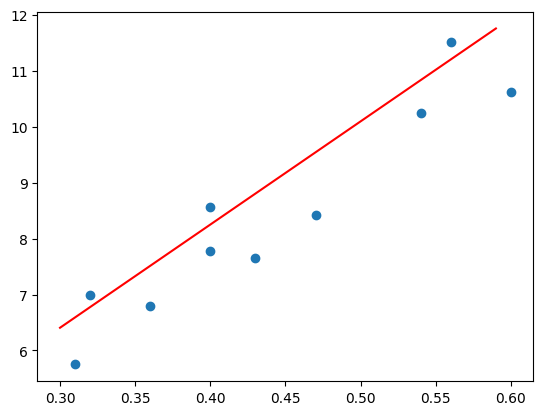
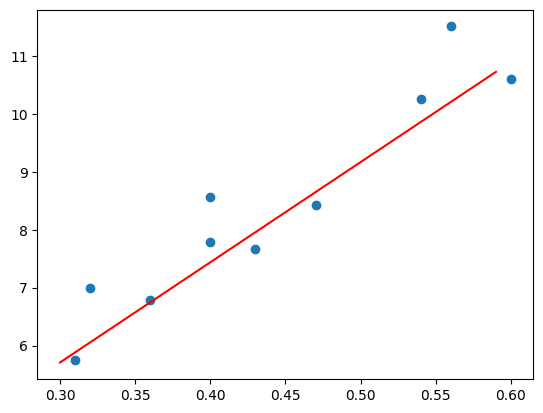
fix implementation

diff --git a/articles/dwd-cuquantum09.md b/articles/dwd-cuquantum09.md
@@ -10,7 +10,9 @@ published: true
 
 [cuQuantum で遊んでみる (8) — QAOA の期待値計算高速化](/derwind/articles/dwd-cuquantum08) で大分計算周りをマシにしたのでもう少し本格的な計算をしてみたいというもの。
 
-なお、今回の計算、どこか間違えているようなのだが間違えているなりにそこそこ行けてそうなので、一旦記事にしてしまって後日修正したい。
+~~なお、今回の計算、どこか間違えているようなのだが間違えているなりにそこそこ行けてそうなので、一旦記事にしてしまって後日修正したい。~~ 修正した[^1]。
+
+[^1]: QUBO 式をイジング変数で書き直す時に式の変形を間違えていた。
 
 実験は Google Colab 上で T4 を使って行った。そんな手軽な環境で本格的な QAOA も VQE も実行できるのである。
 
@@ -72,7 +74,19 @@ H += (10.61 - (a*0.6 + b))**2
 qubo, offset = Compile(H).get_qubo()
 ```
 
-この後、$z_i = (2q_i - 1)$ を用いて、イジング変数で書き直す。単に面倒くさいだけで `qubo` 辞書の内容を `ising_dict` 辞書に置き換えている。
+この後、
+
+$$
+\begin{align*}
+q_i q_j &= \frac{1 - z_i}{2} \frac{1 - z_j}{2} \\
+&= \begin{cases}
+\frac{1 - z_i}{2} \quad (i = j) \\
+\frac{1}{4}(z_i z_j - z_i - z_j + 1) \quad (i \neq j)
+\end{cases}
+\end{align*}
+$$
+
+を用いて、イジング変数で書き直す。単に面倒くさいだけで `qubo` 辞書の内容を `ising_dict` 辞書に置き換えている。
 
 ```python
 ising_dict = {}
@@ -84,27 +98,32 @@ for k, v in qubo.items():
     if rn < ln:
         ln, rn = rn, ln
     if ln == rn:
-        new_k = (f"z{ln}", f"z{ln}")
+        new_k = (f"z{ln}",)
         ising_dict.setdefault(new_k, 0.0)
-        ising_dict[new_k] += v * 3/4
-        additional_offset += 1/4
+        ising_dict[new_k] += -v/2
+        additional_offset += 1/2
     else:
         new_k = (f"z{ln}", f"z{rn}")
         ising_dict.setdefault(new_k, 0.0)
         ising_dict[new_k] += v/4
-        new_k = (f"z{ln}", f"z{ln}")
+        new_k = (f"z{ln}",)
         ising_dict.setdefault(new_k, 0.0)
-        ising_dict[new_k] += v/4
-        new_k = (f"z{rn}", f"z{rn}")
+        ising_dict[new_k] += -v/4
+        new_k = (f"z{rn}",)
         ising_dict.setdefault(new_k, 0.0)
-        ising_dict[new_k] += v/4
+        ising_dict[new_k] += -v/4
         additional_offset += 1/4
 
-def calc_key(k):
-    left, right = k
-    ln = int(left[1:])
-    rn = int(right[1:])
-    return 16*ln + rn
+def calc_key(k: tuple[int] | tuple[int, int]):
+    if len(k) == 1:
+        left = k[0]
+        ln = int(left[1:])
+        return 256*ln - 1
+    else:
+        left, right = k
+        ln = int(left[1:])
+        rn = int(right[1:])
+        return 256*ln + 16*rn
 
 ising_dict = dict(sorted(ising_dict.items(), key=lambda k_v: calc_key(k_v[0])))
 
@@ -112,7 +131,10 @@ ising_dict = dict(sorted(ising_dict.items(), key=lambda k_v: calc_key(k_v[0])))
 #    print(k)
 
 #print(additional_offset)
-#print(ising_dict)
+#for k, v in ising_dict.items():
+#    k = str(k)
+#    n_pad = 15 - len(k)
+#    print(k, " "*n_pad, round(v, 5))
 ```
 
 ## QAOA 回路実装
@@ -138,12 +160,17 @@ qc = QuantumCircuit(n_qubits)
 qc.h(qc.qregs[0][:])
 for _ in range(n_reps):
     for k in ising_dict:
-        left, right = k
-        ln = int(left[1:])
-        rn = int(right[1:])
-        assert ln <= rn
+        if len(k) == 1:
+            left = k[0]
+            ln = int(left[1:])
+            rn = None
+        else:
+            left, right = k
+            ln = int(left[1:])
+            rn = int(right[1:])
+            assert ln <= rn
 
-        if ln == rn:
+        if rn is None:
             qc.rz(gamma[gi()], ln)
         else:
             rzz(qc, gamma[gi()], ln, rn)
@@ -170,9 +197,14 @@ def to_hamiltonian(ising_dict):
     for i in range(n_qubits):
         row = []
         for k in ising_dict.keys():
-            left, right = k
-            ln = int(left[1:])
-            rn = int(right[1:])
+            if len(k) == 1:
+                left = k[0]
+                ln = int(left[1:])
+                rn = None
+            else:
+                left, right = k
+                ln = int(left[1:])
+                rn = int(right[1:])
             if ln == i or rn == i:
                 row.append(Z)
             else:
@@ -202,8 +234,8 @@ for ham, locs in zip(hamiltonian, hamiltonian_locs):
     operands[locs] = ham
 ```
 
-> CPU times: user 2min 22s, sys: 310 ms, total: 2min 22s
-> Wall time: 2min 23s
+> CPU times: user 2min 29s, sys: 351 ms, total: 2min 30s
+> Wall time: 2min 33s
 
 `expr` の中身が酷くて、眺めてみると面白い。「食 (hamu)」の部分にハミルトニアンを埋め込んでいる。
 
@@ -251,9 +283,9 @@ print(f"opt value={round(result.fun, 3)}")
 ```
 
 > Maximum number of function evaluations has been exceeded.
-> opt value=-2.353
-> CPU times: user 1h 19min 33s, sys: 7min 22s, total: 1h 26min 55s
-> Wall time: 1h 26min 59s
+> opt value=-1.068
+> CPU times: user 1h 19min 46s, sys: 7min 12s, total: 1h 26min 59s
+> Wall time: 1h 27min 6s
 
 結構時間がかかったが、まだ常識的な範囲ではあろう。そろそろ途中経過の可視化を考えたほうが良い。コールバックから値を引っ張ってきて動的にグラフを書かせるか、`TensorBoard` を使うといったところか。
 
@@ -271,8 +303,8 @@ sim = AerSimulator(device="GPU", method="tensor_network")
 counts = sim.run(opt_qc, shots=1024*50).result().get_counts()
 ```
 
-> CPU times: user 1min 36s, sys: 499 ms, total: 1min 37s
-> Wall time: 1min 37s
+> CPU times: user 1min 37s, sys: 566 ms, total: 1min 37s
+> Wall time: 1min 38s
 
 Qiskit は右が LSB なので、左を LSB にする形で上位 20 の結果を表示してみる。
 
@@ -283,42 +315,41 @@ states = []
 for i, (k, n) in enumerate(sorted(counts.items(), key=lambda k_v: -k_v[1])):
     if n < 5:
         continue
-    print(k[::-1], n)
-    states.append(k[::-1])
+    state = k[::-1]  # reverse order
+    print(state, n)
+    states.append(state)
     i += 1
     if i >= topk:
         break
 ```
 
-> 0000011100011011 15
-> 0101110111011011 14
-> 1010101111011101 13
-> 1001111100110010 13
-> 0111011010010110 12
-> 1010100101011111 12
-> 1010011101111100 12
-> 0100001111000010 11
-> 0101110000010100 11
-> 1011011110101010 11
-> 0010111100010100 11
-> 0100100100000110 10
-> 1111011100000001 10
-> 1000100011110101 10
-> 0011001111101010 10
-> 0011000001001110 10
-> 0110000101100010 9
-> 1000100110010111 9
-> 0000110000101101 9
-> 1011000001111011 9
+> 1011101110000100 13
+> 1011011110011101 12
+> 1100010000111111 11
+> 0001001000111110 11
+> 1010111010100011 11
+> 1010111011011011 11
+> 1101100011111000 10
+> 0101110011011010 10
+> 1100010000000100 10
+> 0000111111000101 10
+> 1110011110100000 10
+> 0000110011010001 10
+> 0000101011001111 10
+> 1100001100110110 10
+> 1000101110100000 10
+> 1000111111001110 9
+> 1011001001010111 9
+> 0111011101110100 9
+> 0111110110100000 9
+> 1000010111000001 9
 
-この辺から何かがおかしいのだが、とりあえず書く。
-
-線形回帰の係数を求める関数。ここが実装がおかしくて、状態を左右反転させてしまったので、`q0`, ..., `q15` の並びと逆のはずなのだが、**何故かこれで良い結果が得られる**。
+線形回帰の係数を求める関数。
 
 ```python
 def calc_ab(state: str):
     q0, q1, q2, q3, q4, q5, q6, q7, q8, q9, q10, q11, q12, q13, q14, q15 = [int(c)
-        for c in state[::-1]]
+        for c in state]
     a = 10 + 10 * ((128*q0 + 64*q1 + 32*q2 + 16*q3 + 8*q4 + 4*q5 + 2*q6 + q7) / 256)
     b = 0 + 1 * ((128*q8 + 64*q9 + 32*q10 + 16*q11 + 8*q12 + 4*q13 + 2*q14 + q15) / 256)
     return a, b
@@ -352,18 +383,33 @@ plt.figure()
 plt.scatter(xs, ys)
 print(states[0])
 a_, b_ = calc_ab(states[0])
+print(a_, b_)
 x = np.arange(0.3, 0.6, 0.01)
 y = a_*x + b_
 plt.plot(x, y, color="red")
 plt.show()
 ```
 
+> 1011101110000100
+> a = 17.3046875
+> b = 0.515625
+
 ![](/images/dwd-cuquantum09/002.png)
 
-2～3 番目の解でも同じようなグラフになるので、**途中の計算がおかしいわりにはあながち完全に間違っているわけではなさそう**・・・という結果になっている。
+2～3 番目の解でも同じようなグラフになっている。TYTANSDK のチュートリアルで疑似量子アニーリングで求める場合、
+
+> a = 17.1875
+> b = 0.88671875
+
+らしいので、そこそこ良さそうである。因みに 6 番手の「1010111011011011」だと
+
+> a = 16.796875
+> b = 0.85546875
+
+と言った感じで、より雰囲気が出る。要するに、top-1 が必ずしも最適解というわけではないという感じである。
 
 # まとめ
 
-色々気持ち悪い状態ではあるが、ちゃんと実装したらこのような感じで QAOA を実行できるのではないだろうかという感じになった。
+疑似量子アニーリングの題材を使って 16 量子ビットの QAOA を実行してみた。
 
 解の候補一覧から分かることだが、16 量子ビット程度の QAOA で既に最適解の確率振幅は驚く程小さい。僅差でトップになっているに過ぎない。Deutsch-Jozsa のアルゴリズムや Grover のアルゴリズムといった FTQC 用の解の絞り込みが工夫されたちゃんとしたアルゴリズムと異なり、NISQ 向けのメタヒューリスティクスなので仕方ない部分もあるかもしれないのだが、かなり大らかな気持ちで「解に近いものが得られたら御の字」くらいでやらないと厳しいのかもしれない。
